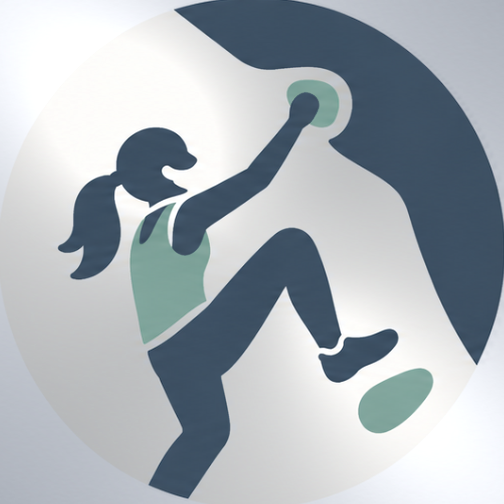
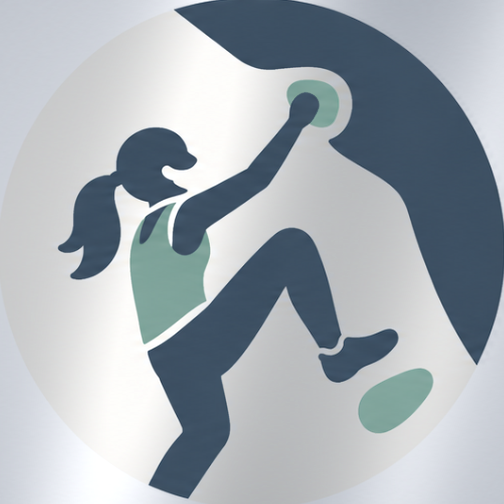
coin sheen: light bands at the hover glint's 105deg so the two match

diff --git a/assets/media/badges/README.md b/assets/media/badges/README.md
@@ -10,14 +10,17 @@ rendered by `layouts/_partials/hbx/blocks/resume-biography-3/block.html`.
 - **PNG / WebP** works too and is shown as an image (use at least 128 px).
 
 In use: `bouldering-sheen.png`, `running-sheen.png`, `cats-sheen.png`: the
-flat designs below with only their cream background replaced by spun silver,
-after the look of Apple's Activity award medals: a cool grey base (about
-rgb(200)) with two narrow bright lobes on the upper-left to lower-right
-diagonal, broader soft shade across it, a white specular hotspot toward the
-upper left and a slight dome. It is smooth, with no grain: the metal comes
-from the contrast between shade and highlight. (An earlier, low-contrast
-light-grey sheen with faint brushing looked dirty; lifting it toward white
-lost the metal.) Each pixel of the flat design was unmixed into cream plus
+flat designs below with only their cream background replaced by polished
+silver: a cool grey base (about rgb(200)) crossed by soft light bands, a
+bright one toward the light on the left, shade right of centre and a faint
+second highlight at the right edge, plus a slight dome. The bands run at
+the same 105deg as the hover glint (`.hobby-face--front::after` in
+`assets/css/custom.css`), so the glint reads as the same reflection sliding
+across; change one and the other should follow. It is smooth, with no grain:
+the metal comes from the contrast between shade and highlight. (Tried before:
+a low-contrast light-grey sheen with faint brushing looked dirty; lifting it
+toward white lost the metal; spun-metal lobes on the other diagonal clashed
+with the glint.) Each pixel of the flat design was unmixed into cream plus
 navy or sage with a coverage, and only the cream share was swapped for the
 silver, so the figures and their anti-aliased edges are exactly as drawn.
 
